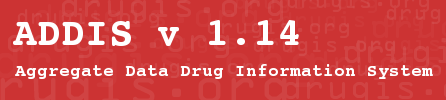
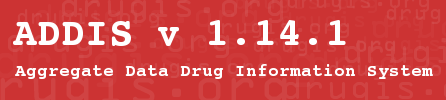
Automated changes for 1.14.1

Changed region(s): [[0.6704, 0.21, 0.787, 0.45]]

diff --git a/README.md b/README.md
@@ -16,6 +16,7 @@ modern operating systems ship with a suitable JRE.
 
 Versions
 --------
+1.14.1: Bugfix release. 
 
 1.14: Network meta-analysis results can now be saved in the ADDIS data
    file. In addition, the computations can be reset and there is a new
